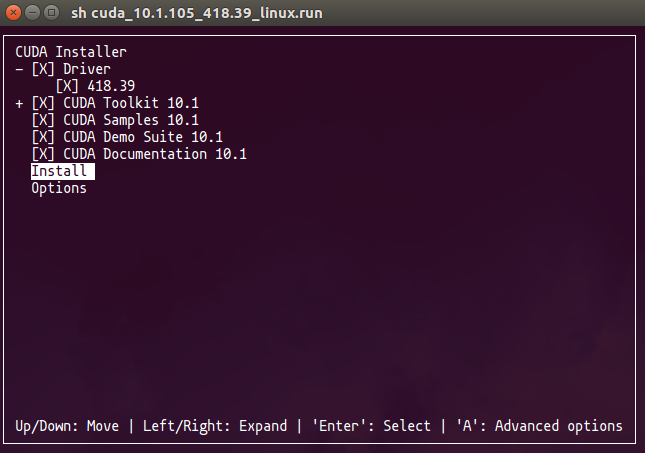
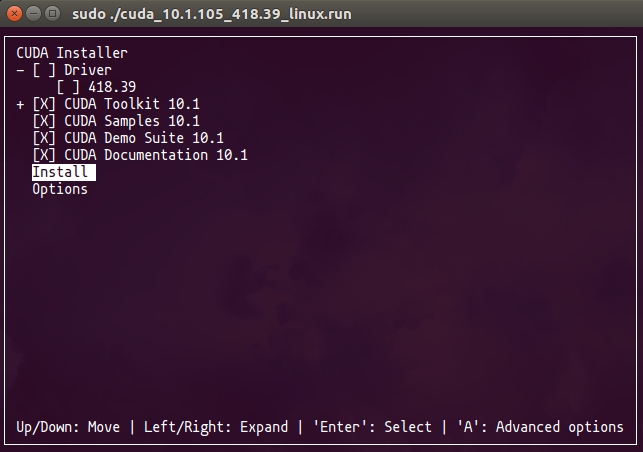
fix CUDA

Changed region(s): [[0.0, 0.0, 0.9953, 0.4336], [0.0, 0.8982, 0.9953, 0.9912]]

diff --git a/src/ai_base_env.md b/src/ai_base_env.md
@@ -167,22 +167,14 @@ nvidia-smi
     chmod 777 cuda_10.1.105_418.39_linux.run
     sudo sh ./cuda_10.1.105_418.39_linux.run
     ```
-    若提示安装失败，查看` vim /var/log/cuda-installer.log`显示`ERROR: You appear to be running an X server; please exit X `，是由于没有卸载旧的显卡驱动导致，解决方法是`Ctrl + Alt + F1`在终端命令行进行安装:
-    ```shell
-    sudo service lightdm stop
-    bash # Switch from zsh environment to bash environment
-    sudo apt-get purge nvidia*
-    sudo sh ./cuda_10.1.105_418.39_linux.run
-    ```
-    ![CUDA 10.1](../img/cuda10.1_1.png)     
+    
     输入`accept`进入安装界面:    
+    ![CUDA 10.1](../img/cuda10.1_1.png)     
+    **不要安装`CUDA`自带的`NVIDIA`驱动**，将光标移动到`Driver`选项上，按下**空格键**取消选择安装`NVIDIA`驱动，移动光标再到`Install`上然后按回车。    
     ![CUDA 1O.1](../img/cuda10.1_2.png)      
-    选项一律默认，移动光标到`Install`上然后按回车。    
-    安装成功后运行:    
-    ```shell
-    sudo service lightdm start
-    ```
-    然后再按通过`Ctrl + Alt + F7`可返回图形化模式。   
+    安装成功后提示:    
+    ![CUDA success](../img/cuda10.1-finished.png)      
+    
 
 ### 修改配置文件   
 安装完成后配置`CUDA`环境变量，使用`vim`配置文件：   
@@ -215,12 +207,42 @@ cat /usr/local/cuda/version.txt
 ### 卸载CUDA的方法   
 ```shell
 cd /usr/local/cuda/bin
+
+# CUDA 9.0
 sudo ./uninstall_cuda_9.0.pl
+
+# CUDA 10.1
+sudo ./cuda-uninstaller
 ```
-卸载完成后如果显示：`Not removing directory, it is not empty: /usr/local/cuda-9.0` ，假如需要重装CUDA 9.0的话就把这个文件夹删除。在`/usr/local/`路径下输入：
+卸载完成后如果显示：`Not removing directory, it is not empty: /usr/local/cuda-9.0` ，假如需要重装`CUDA 9.0`的话就把这个文件夹删除。在`/usr/local/`路径下输入：
 ```shell
+# CUDA 9.0
 sudo rm -rf cuda-9.0
+
+# CUDA 10.1
+sudo rm -rf cuda-10.1
 ```
+
+### 安装CUDA过程中遇到的问题
+`CUDA 10.1`提示安装失败:    
+![CUDA Error](../img/cuda-error.png)    
+查看` vim /var/log/cuda-installer.log`显示:    
+![Error Detail](../img/cuda-error1.png)    
+`ERROR: You appear to be running an X server; please exit X `，是在安装`CUDA`的时候选择的安装`CUDA`自带的`NVIDIA`显卡驱动导致的，解决方法是:    
+(1)在安装`CUDA`的时候不要选择安装`CUDA`自带的`NVIDIA`驱动；    
+(2)若要用`CUDA`自带的`NVIDIA`显卡驱动，则`Ctrl + Alt + F1`在终端命令行进行安装:    
+```shell
+sudo service lightdm stop
+bash # Switch from zsh environment to bash environment
+sudo apt-get purge nvidia*
+sudo sh ./cuda_10.1.105_418.39_linux.run
+```
+若是在终端命令行下安装的CUDA，则需要安装成功后运行:    
+```shell
+sudo service lightdm start
+```
+然后再按通过`Ctrl + Alt + F7`可返回图形化模式。   
+
 ---
 ## 安装cuDNN   
 `cuDNN`要根据`CUDA`选择相应平台版本，在`Ubuntu16.04`下(`Ubuntu`其他版本类似)到[cuDNN官网](https://developer.nvidia.com/rdp/cudnn-archive)**推荐下载安装`.tgz`格式的文件**, 不推荐下载安装`.deb`格式，若误装了`.deb`格式的cuDNN请用以下命令进行卸载:
